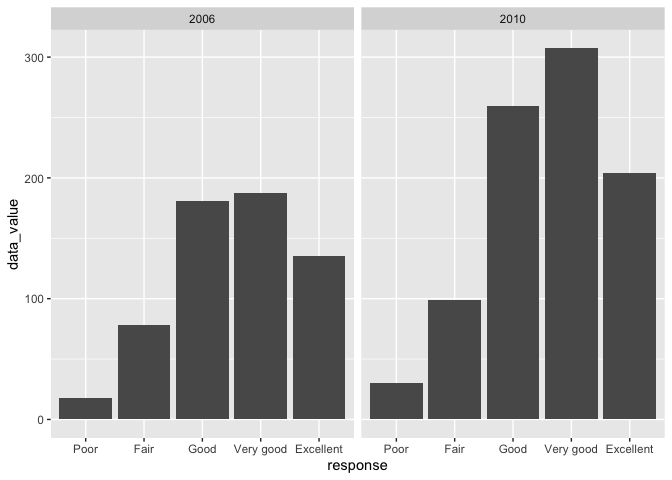
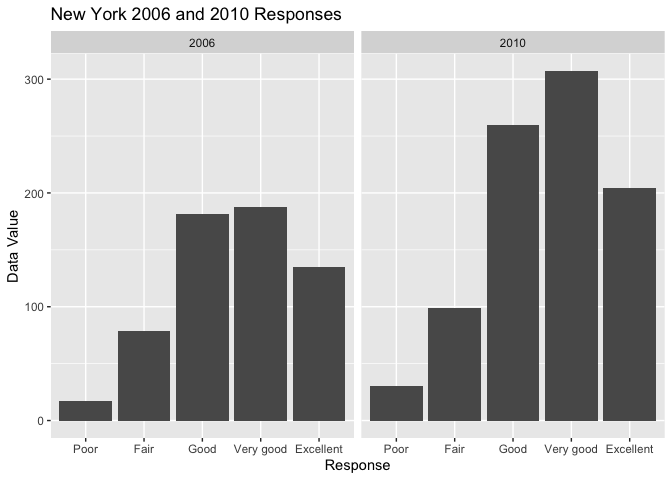
improved interpretations

diff --git a/p8105_hw3_crf2147.md b/p8105_hw3_crf2147.md
@@ -102,6 +102,10 @@ instacart %>%
 
 ![](p8105_hw3_crf2147_files/figure-gfm/unnamed-chunk-6-1.png)<!-- -->
 
+Produce aisles appear the most popular, followed by some dairy and eggs
+aisles. There are a few aisles such as fresh vegetables and fruits which
+have far more orders than any others.
+
 ``` r
 #picking top 3 products from baking aisle
 baking_aisle = instacart %>% 
@@ -156,6 +160,10 @@ knitr::kable(three_aisles)
 | packaged vegetables fruits | Organic Raspberries                           |             5546 |
 | packaged vegetables fruits | Organic Blueberries                           |             4966 |
 
+The packaged vegetables fruits aisle’s top products have far more orders
+than the other two. The top dog food care products still have relatively
+few orders.
+
 ``` r
 #making table of apples and ice cream and time ordered
 instacart %>% 
@@ -184,6 +192,11 @@ instacart %>%
 | Friday    |                       15.22 |                      11.55 |
 | Saturday  |                       12.26 |                      12.78 |
 | Sunday    |                       13.83 |                      11.94 |
+
+People appear to order their ice cream later in the day than apples. In
+general the apples are typically ordered around 11 am, and the ice cream
+is ordered around 2 pm. Orders on the weekend appear to be earlier than
+orders on the weekdays.
 
 # Problem 2
 
@@ -284,6 +297,11 @@ brfss_smart2010 %>%
 
 ![](p8105_hw3_crf2147_files/figure-gfm/unnamed-chunk-13-1.png)<!-- -->
 
+Some states appear to have much higher mean values compared to others.
+Additionally, some states are very fluctual, while others have
+relatively stable mean values across time. In most states the mean value
+appears to have risen around 2006, and fallen shortly after.
+
 ``` r
 #making 2 panel bar graph 
 brfss_smart2010 %>% 
@@ -293,10 +311,15 @@ brfss_smart2010 %>%
   ) %>% 
   ggplot(aes( x = response, y = data_value)) + 
   geom_bar(stat = "identity") + 
-  facet_grid(~year)
+  facet_grid(~year) + 
+  labs(title = "New York 2006 and 2010 Responses", x = "Response", y = "Data Value")
 ```
 
 ![](p8105_hw3_crf2147_files/figure-gfm/unnamed-chunk-14-1.png)<!-- -->
+
+The values appear higher in all categories in 2010 compared to 2006. In
+both years, there are higher values on the positive versus negative
+responses. Very good in both years was the highest response.
 
 # Problem 3
 
